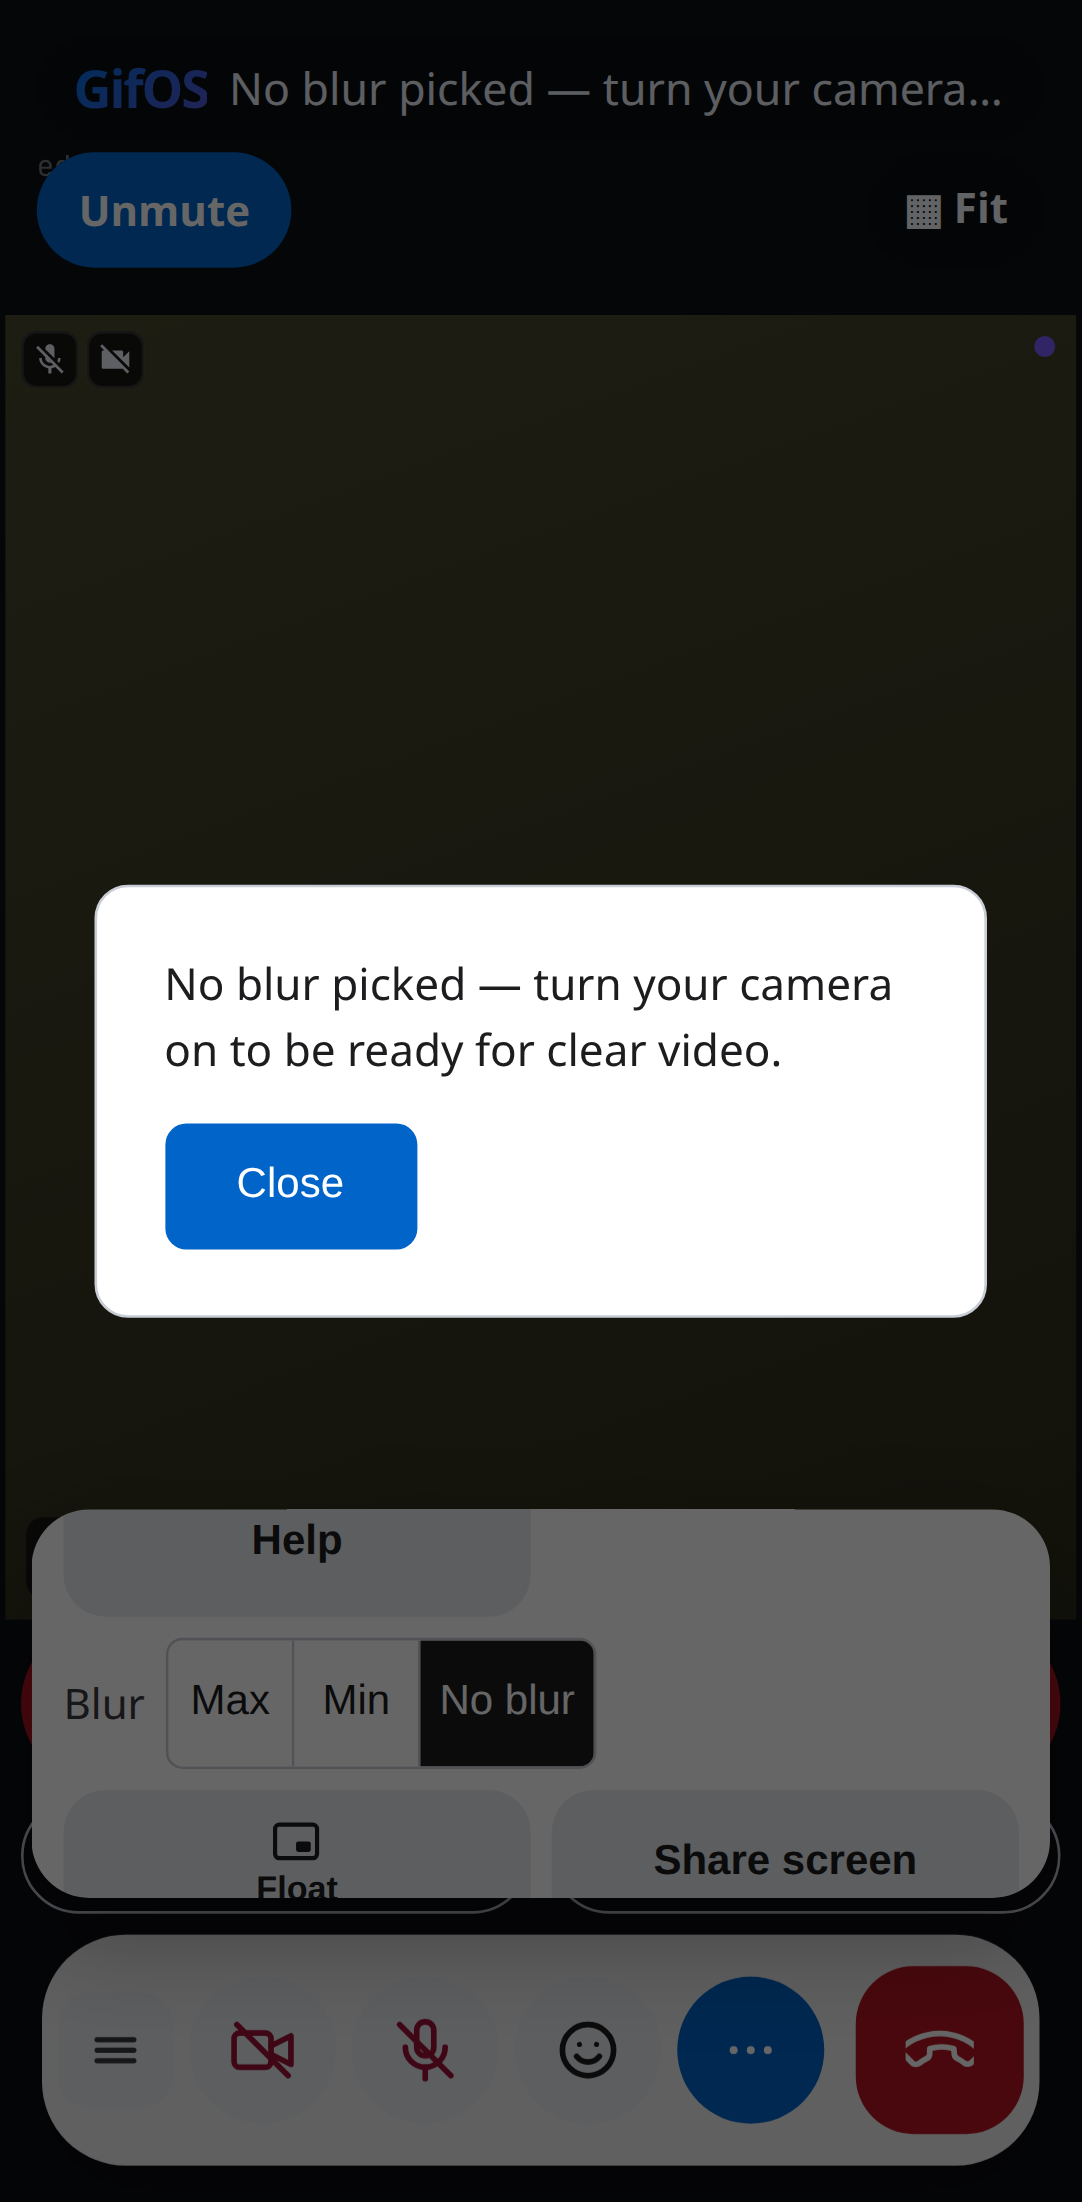
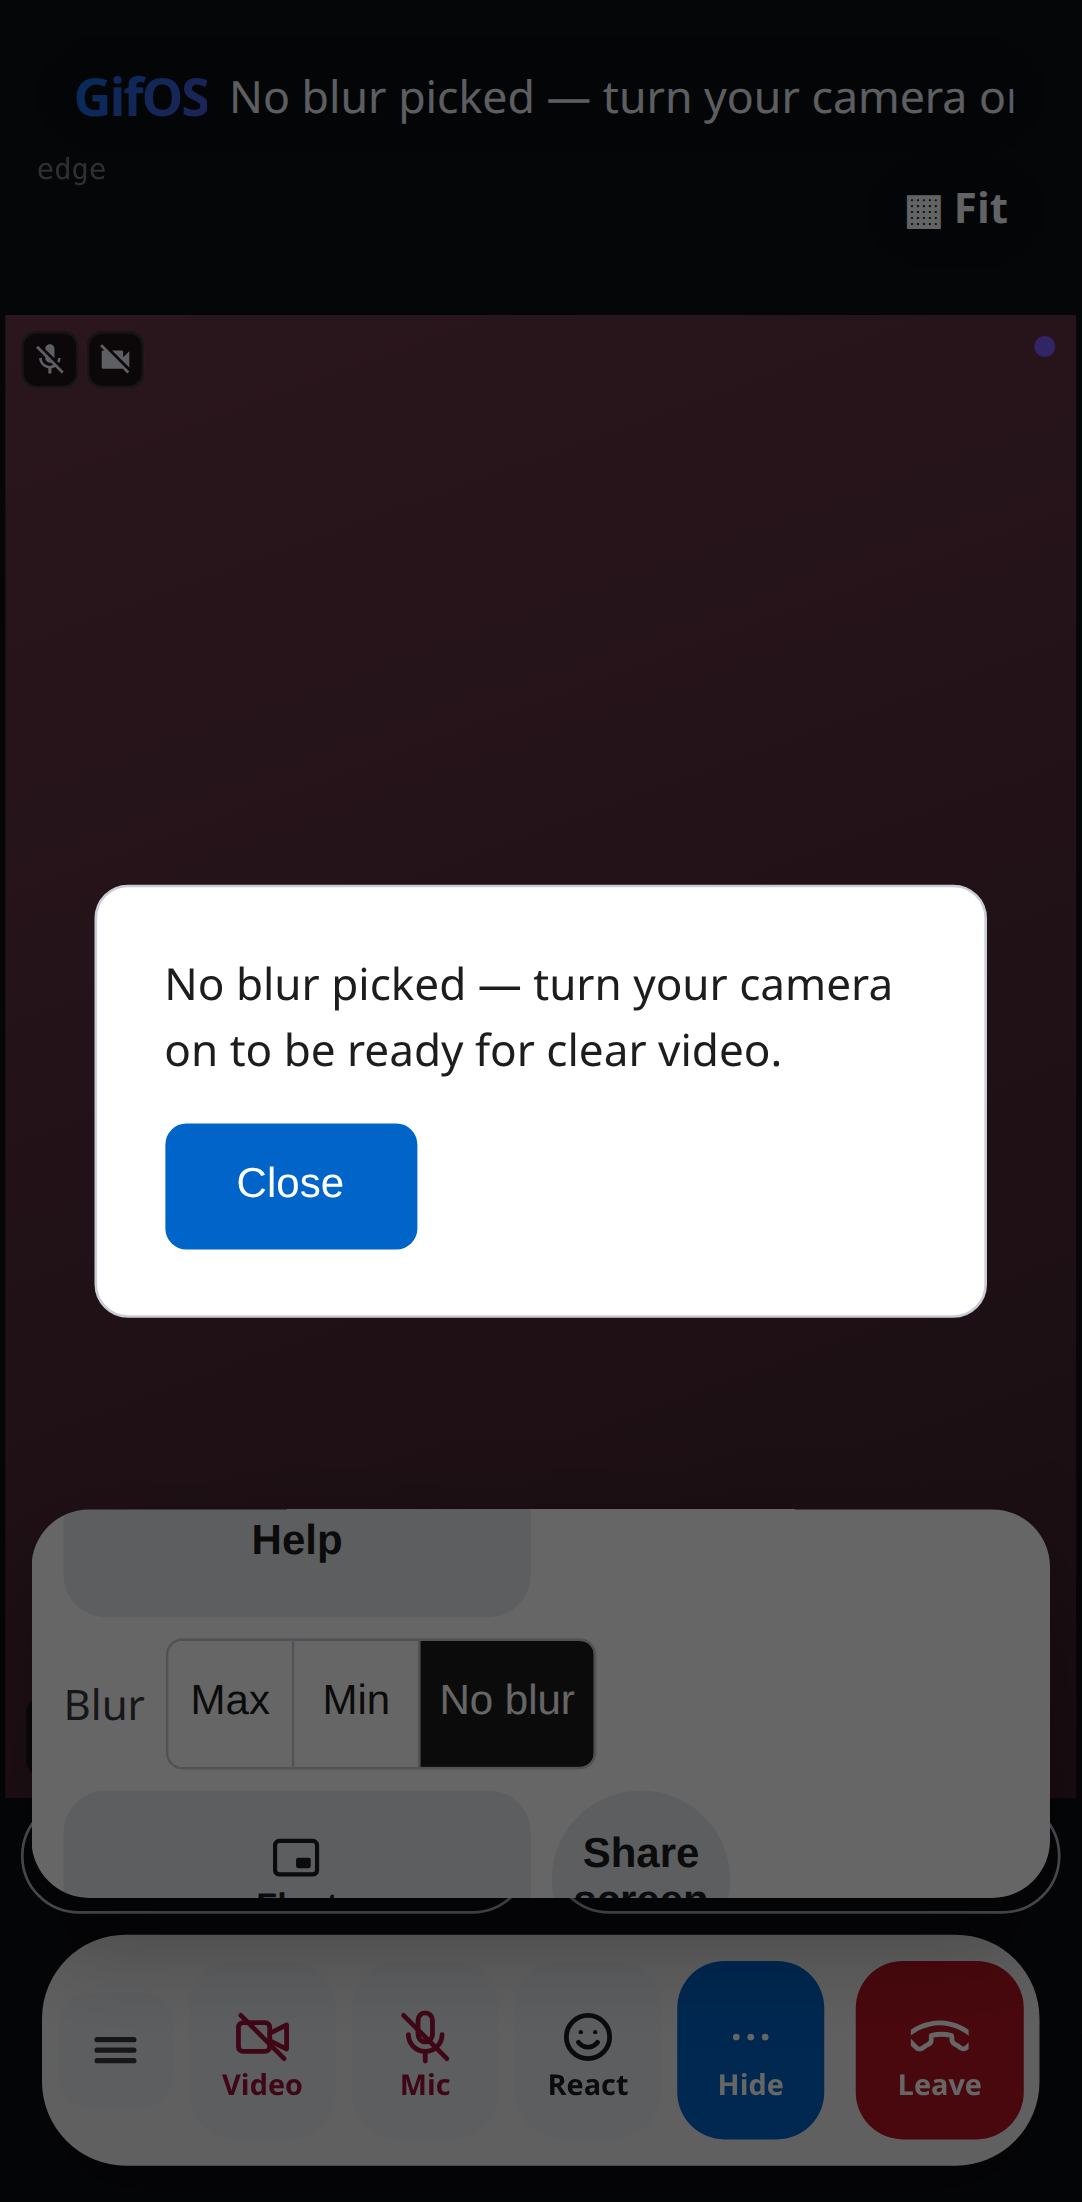
Meet: a phone header shows the message it holds.
setStatus wrote an explicit message only to #statusrest, the wide-window line a phone hides. On a phone, "No blur picked", a password refusal or "Wrong admin password" never showed, and the chip kept the room name. It now writes #status too. The message holds (4s, 12s for a refusal), then the room name comes back.

Proof: test/mobile/header-message.js failed 3/3 at a34661f (phone header reads "header-message", not the message), passes 3/3 here. header-full.js passes again, and header-tap, header-count and header-invite pass. The rest of test/mobile passes except caption-on-tile.js and caption-read.js, which fail the same way without this change.

diff --git a/run.html b/run.html
@@ -3053,8 +3053,10 @@ requestAnimationFrame(chk);setTimeout(show,1500);})();</script>
       const blocking = /^(🛡|📷)/.test(String(m));
       const countEl = document.getElementById('statuscount');
       const restEl = document.getElementById('statusrest');
+      // #status is the phone's line, #statusrest the wide window's. Write
+      // both: a phone hides #statusrest, and a refusal there went unread.
       if (countEl && restEl) { countEl.textContent = ''; restEl.textContent = m; }
-      else statusEl.textContent = m;
+      statusEl.textContent = m;
       const invHold = document.getElementById('statusinvite');
       if (invHold) invHold.hidden = true;
       if (statusEl.title !== String(m)) statusEl.title = String(m);

diff --git a/QUIRKS.md b/QUIRKS.md
@@ -601,9 +601,19 @@ Repro: `test/mobile/chat-find-sign.js`. It failed (`Search key leaves the keyboa
 
 Before: `qa/mobile/shots/before-chat-find-sign-land.png`. After: `qa/mobile/shots/after-chat-find-sign-land.png`, and `qa/mobile/shots/after-chat-find-iphone-se.png` (the title in portrait).
 
+### 69. A phone header never showed a message
+
+On a phone, a message in the header (No blur picked, "⛔ Only the person who runs this room can change its password.", "🛡 Wrong admin password.") never showed. setStatus wrote it only to the wide-window line, which a phone hides, so the chip kept the room name. The message was only in a title, and a phone does not show titles.
+
+setStatus now writes the phone line too. The message shows while it holds (4s, 12s for a refusal), and then the room name comes back.
+
+Repro: `test/mobile/header-message.js`. It failed 3 of 3 runs (`phone header reads "header-message", not the message`), then passed 3 of 3. `header-full.js`, `header-tap.js`, `header-count.js`, `header-invite.js` pass. The rest of test/mobile passes except `caption-on-tile.js` and `caption-read.js`, which fail the same way without this change (`iphone-se-200: no caption on the call`).
+
+Before: `qa/mobile/shots/before-header-message-pixel-7.png`. After: `qa/mobile/shots/after-header-message-pixel-7.png`, and `qa/mobile/shots/after-header-full-pixel-7.png`.
+
 ## Open
 
-The build name is a faint line under the header. A green round "A" in Nathan's shot did not appear in the Playwright capture. Fit and the name chip stay while the dock is tucked. A closed chat says who mentioned you, Reply keeps that line on the answer, and Delete takes back your own line. An address in a line is a link. The room name and full screen are 44px taps. A sideways phone shows the whole name. A chat line takes a reaction. The keyboard leaves the chat field and Send in view on a sideways SE. The chat title says when a search is cutting the log down. `header-full.js` fails: the room name is not trimmed.
+The build name is a faint line under the header. A green round "A" in Nathan's shot did not appear in the Playwright capture. Fit and the name chip stay while the dock is tucked. A closed chat says who mentioned you, Reply keeps that line on the answer, and Delete takes back your own line. An address in a line is a link. The room name and full screen are 44px taps. A sideways phone shows the whole name. A chat line takes a reaction. The keyboard leaves the chat field and Send in view on a sideways SE. The chat title says when a search is cutting the log down. A phone header shows a message while it holds. The phone line clips a long message with no "…". `caption-on-tile.js` and `caption-read.js` fail at 200% text on an SE.
 
 ## Personas (what was actually tried)
 

diff --git a/BENCHMARK.md b/BENCHMARK.md
@@ -116,3 +116,4 @@ Family and friends. Warm, few steps, a texted link.
 57. A chat line had no reaction. `test/mobile/chat-react.js` failed (`no way to react to a line`), then passed. React on their line and the five picks are 44px and stay off Send. The count shows on the line, yours is outlined, and a second tap takes it off. A frame counts only from the person it names. Audience scores stay 9 / 9 / 9. `chat-keyboard.js` fails on a sideways SE, where the keyboard covers the field. Nobody leads yet.
 58. A sideways keyboard covered the chat field. `test/mobile/chat-keyboard.js` failed on an SE (`keyboard covers field (bottom 171, line 120)`), then passed. Find in chat steps aside while the keyboard is up, unless you are searching. Audience scores stay 9 / 9 / 9. Nobody leads yet.
 59. A search in chat hid the line you sent. `test/mobile/chat-find-sign.js` failed (`Search key leaves the keyboard on Find; message field cannot be tapped; the line you sent is not in the log`), then passed. The Search key ends the search, the title says 'Lines with "Tuesday"', and sending clears the search. Audience scores stay 9 / 9 / 9. `header-full.js` fails. Nobody leads yet.
+60. A phone header never showed a message. `test/mobile/header-message.js` failed (`phone header reads "header-message", not the message`), then passed. A message such as No blur picked, a refusal, or Wrong admin password went only to the wide-window line, which a phone hides. Now the phone line shows it while it holds, then the room name comes back. `header-full.js` passes again. Audience scores stay 9 / 9 / 9. The phone line clips a long message with no "…". Nobody leads yet.
